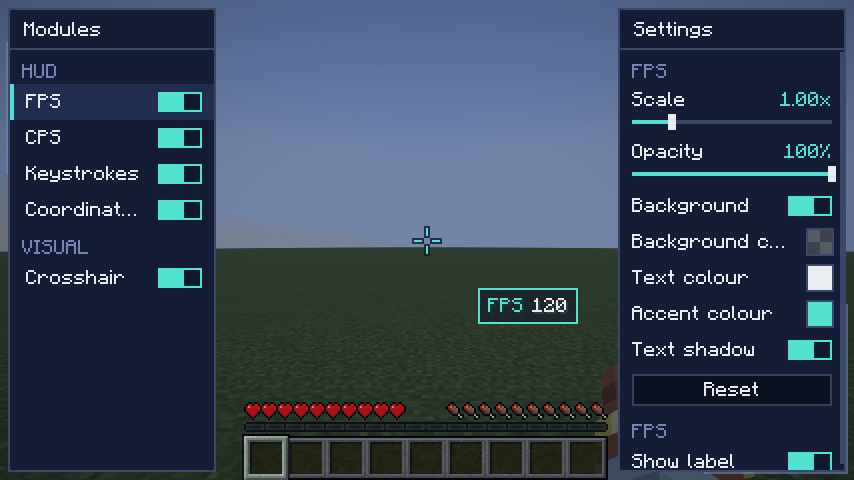
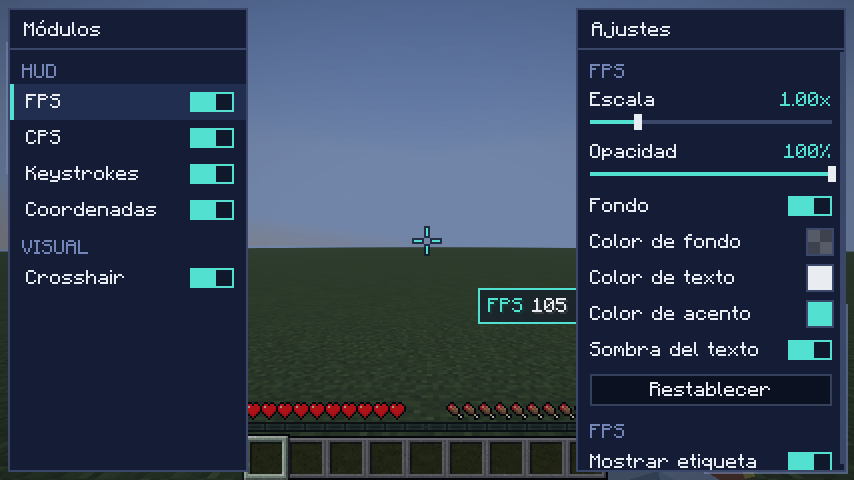
Editor: size panels to their content and wrap long labels
Spanish labels were cut off with ... because the panels had a fixed
width. Panels now fit their widest row (up to a third of the screen) and
labels that still do not fit wrap onto several lines. The client game
test runs in Spanish to cover the longest strings.

Changed region(s): [[0.6393, 0.0, 0.9133, 1.0], [0.0913, 0.0, 0.3044, 1.0], [0.7611, 0.7812, 0.9133, 0.8438]]

diff --git a/client-core/src/main/java/dev/cobalmoon/core/ui/Widgets.java b/client-core/src/main/java/dev/cobalmoon/core/ui/Widgets.java
@@ -41,6 +41,12 @@ public final class Widgets {
         void release() {}
 
         boolean scroll(double amount) { return false; }
+
+        /** Width this row needs to show its text without truncation. */
+        int preferredWidth(GuiCanvas c) { return 0; }
+
+        /** Called with the final row width before rendering (for rows whose height depends on it). */
+        void layout(GuiCanvas c, int w) {}
     }
 
     public static final class Header extends Row {
@@ -50,21 +56,61 @@ public final class Widgets {
 
         @Override protected int height() { return 16; }
 
+        @Override int preferredWidth(GuiCanvas c) { return c.textWidth(text.get().toUpperCase(Locale.ROOT)) + 14; }
+
         @Override
         void render(GuiCanvas c, int x, int y, int w, int mx, int my, boolean hovered) {
-            c.text(text.get().toUpperCase(Locale.ROOT), x + 6, y + 6, Theme.muted(), false);
+            c.text(ellipsize(c, text.get().toUpperCase(Locale.ROOT), w - 12), x + 6, y + 6, Theme.muted(), false);
         }
     }
 
+    /** Muted help text; wraps onto as many lines as needed instead of being cut. */
     public static final class Label extends Row {
         private final Supplier<String> text;
+        private List<String> lines = List.of();
 
         public Label(Supplier<String> text) { this.text = text; }
 
         @Override
-        void render(GuiCanvas c, int x, int y, int w, int mx, int my, boolean hovered) {
-            c.text(ellipsize(c, text.get(), w - 12), x + 6, y + 5, Theme.muted(), false);
+        void layout(GuiCanvas c, int w) {
+            lines = wrap(c, text.get(), w - 12);
         }
+
+        @Override protected int height() { return Math.max(1, lines.size()) * 10 + 8; }
+
+        @Override
+        void render(GuiCanvas c, int x, int y, int w, int mx, int my, boolean hovered) {
+            int ly = y + 5;
+            for (String l : lines) {
+                c.text(l, x + 6, ly, Theme.muted(), false);
+                ly += 10;
+            }
+        }
+    }
+
+    /** Greedy word wrap; words longer than the width are split. */
+    static List<String> wrap(GuiCanvas c, String text, int max) {
+        List<String> out = new ArrayList<>();
+        StringBuilder line = new StringBuilder();
+        for (String word : text.split(" ")) {
+            String candidate = line.isEmpty() ? word : line + " " + word;
+            if (c.textWidth(candidate) <= max) {
+                line.setLength(0);
+                line.append(candidate);
+                continue;
+            }
+            if (!line.isEmpty()) out.add(line.toString());
+            line.setLength(0);
+            while (c.textWidth(word) > max && word.length() > 1) {
+                int end = word.length();
+                while (end > 1 && c.textWidth(word.substring(0, end)) > max) end--;
+                out.add(word.substring(0, end));
+                word = word.substring(end);
+            }
+            line.append(word);
+        }
+        if (!line.isEmpty()) out.add(line.toString());
+        return out;
     }
 
     public static final class Toggle extends Row {
@@ -82,11 +128,20 @@ public final class Widgets {
             return new Toggle(() -> Tr.of(s.name()), s::get, s::set);
         }
 
+        private List<String> lines = List.of();
+
+        @Override int preferredWidth(GuiCanvas c) { return c.textWidth(label.get()) + 46; }
+
+        @Override void layout(GuiCanvas c, int w) { lines = wrap(c, label.get(), w - 40); }
+
+        @Override protected int height() { return wrappedHeight(lines); }
+
         @Override
         void render(GuiCanvas c, int x, int y, int w, int mx, int my, boolean hovered) {
-            if (hovered) c.fill(x, y, x + w, y + ROW_H, Theme.hover());
-            c.text(ellipsize(c, label.get(), w - 40), x + 6, y + 5, Theme.text(), false);
-            drawSwitch(c, x + w - 28, y + 4, get.getAsBoolean());
+            int h = height();
+            if (hovered) c.fill(x, y, x + w, y + h, Theme.hover());
+            drawLines(c, lines, x + 6, y, h, Theme.text());
+            drawSwitch(c, x + w - 28, y + (h - 10) / 2, get.getAsBoolean());
         }
 
         @Override
@@ -117,6 +172,8 @@ public final class Widgets {
         }
 
         @Override protected int height() { return 26; }
+
+        @Override int preferredWidth(GuiCanvas c) { return c.textWidth(label.get()) + c.textWidth(value.get()) + 22; }
 
         @Override
         void render(GuiCanvas c, int x, int y, int w, int mx, int my, boolean hovered) {
@@ -162,6 +219,8 @@ public final class Widgets {
             return new Cycle(() -> Tr.of(s.name()), () -> Tr.of(s.label(s.get())), s::cycle);
         }
 
+        @Override int preferredWidth(GuiCanvas c) { return c.textWidth(label.get()) + c.textWidth("‹ " + value.get() + " ›") + 22; }
+
         @Override
         void render(GuiCanvas c, int x, int y, int w, int mx, int my, boolean hovered) {
             if (hovered) c.fill(x, y, x + w, y + ROW_H, Theme.hover());
@@ -193,18 +252,28 @@ public final class Widgets {
             return new ColorPick(() -> Tr.of(s.name()), s::get, s::set);
         }
 
+        private List<String> lines = List.of();
+
+        @Override int preferredWidth(GuiCanvas c) { return c.textWidth(label.get()) + 34; }
+
+        @Override void layout(GuiCanvas c, int w) { lines = wrap(c, label.get(), w - 30); }
+
+        @Override protected int height() { return wrappedHeight(lines); }
+
         @Override
         void render(GuiCanvas c, int x, int y, int w, int mx, int my, boolean hovered) {
-            if (hovered) c.fill(x, y, x + w, y + ROW_H, Theme.hover());
+            int h = height();
+            if (hovered) c.fill(x, y, x + w, y + h, Theme.hover());
             int argb = get.getAsInt();
             String hex = ColorSetting.toHex(argb);
             int sx = x + w - 18;
             if (hovered) {
-                // the hex code replaces the label while hovering, so the label never gets truncated otherwise
-                c.text(hex, x + 6, y + 5, Theme.muted(), false);
+                // the hex code replaces the label while hovering
+                drawLines(c, List.of(hex), x + 6, y, h, Theme.muted());
             } else {
-                c.text(ellipsize(c, label.get(), w - 30), x + 6, y + 5, Theme.text(), false);
+                drawLines(c, lines, x + 6, y, h, Theme.text());
             }
+            y += (h - ROW_H) / 2; // centre the swatch vertically
             // checkerboard under the swatch so transparency is visible
             c.fill(sx, y + 3, sx + 12, y + 15, 0xFF808080);
             c.fill(sx, y + 3, sx + 6, y + 9, 0xFFC0C0C0);
@@ -246,6 +315,8 @@ public final class Widgets {
 
         @Override protected int height() { return 22; }
 
+        @Override int preferredWidth(GuiCanvas c) { return c.textWidth(label.get()) + 28; }
+
         @Override
         void render(GuiCanvas c, int x, int y, int w, int mx, int my, boolean hovered) {
             int bx1 = x + 6, bx2 = x + w - 6, by1 = y + 3, by2 = y + 19;
@@ -283,6 +354,8 @@ public final class Widgets {
             this.selected = selected;
         }
 
+        @Override int preferredWidth(GuiCanvas c) { return c.textWidth(name.get()) + 50; }
+
         @Override
         void render(GuiCanvas c, int x, int y, int w, int mx, int my, boolean hovered) {
             boolean sel = selected.getAsBoolean();
@@ -298,6 +371,20 @@ public final class Widgets {
             if (mx >= x + w - 32) toggle.run();
             else select.run();
             return true;
+        }
+    }
+
+    /** Row height for wrapped label lines: one line keeps the standard row height. */
+    static int wrappedHeight(List<String> lines) {
+        return lines.size() <= 1 ? ROW_H : lines.size() * 10 + 8;
+    }
+
+    /** Draws label lines vertically centred in a row of height h. */
+    static void drawLines(GuiCanvas c, List<String> lines, int x, int y, int h, int color) {
+        int ly = y + (h - (lines.size() * 10 - 2)) / 2;
+        for (String l : lines) {
+            c.text(l, x, ly, color, false);
+            ly += 10;
         }
     }
 
@@ -361,6 +448,19 @@ public final class Widgets {
         private void clampScroll() {
             int max = Math.max(0, contentHeight() - (y + h - contentTop()));
             scroll = Math.max(0, Math.min(max, scroll));
+        }
+
+        /** Width that fits the title and every row's text, clamped to [minW, maxW]. */
+        public int preferredWidth(GuiCanvas c, int minW, int maxW) {
+            int want = c.textWidth(title.get()) + 16;
+            for (Row r : rows) want = Math.max(want, r.preferredWidth(c) + 4);
+            return Math.max(minW, Math.min(maxW, want));
+        }
+
+        /** Lets rows whose height depends on the width (wrapped text) measure themselves. */
+        public void layoutRows(GuiCanvas c) {
+            for (Row r : rows) r.layout(c, w - 2);
+            clampScroll();
         }
 
         public boolean contains(double mx, double my) {

diff --git a/client-core/src/test/java/dev/cobalmoon/core/ui/WrapTest.java b/client-core/src/test/java/dev/cobalmoon/core/ui/WrapTest.java
@@ -1,0 +1,47 @@
+package dev.cobalmoon.core.ui;
+
+import dev.cobalmoon.core.render.GuiCanvas;
+import org.junit.jupiter.api.Test;
+
+import java.util.List;
+
+import static org.junit.jupiter.api.Assertions.*;
+
+class WrapTest {
+    /** 6 px per character, like Minecraft's font for most glyphs. */
+    static final class Fixed implements GuiCanvas {
+        @Override public int textWidth(String t) { return t.length() * 6; }
+        @Override public int fontHeight() { return 8; }
+        @Override public void text(String t, int x, int y, int c, boolean s) {}
+        @Override public void fill(int a, int b, int c, int d, int e) {}
+        @Override public int screenWidth() { return 480; }
+        @Override public int screenHeight() { return 270; }
+        @Override public void push(float x, float y, float s) {}
+        @Override public void pop() {}
+        @Override public float setAlpha(float a) { return 1; }
+        @Override public float alpha() { return 1; }
+        @Override public void clip(int a, int b, int c, int d) {}
+        @Override public void endClip() {}
+        @Override public void nextLayer() {}
+    }
+
+    @Test
+    void wrapsOnWordsAndKeepsEverything() {
+        List<String> lines = Widgets.wrap(new Fixed(), "Selecciona un elemento o un módulo.", 60);
+        // 60 px = 10 characters per line
+        assertEquals(List.of("Selecciona", "un", "elemento o", "un módulo."), lines);
+        for (String l : lines) assertTrue(l.length() <= 10, l);
+        assertEquals("Selecciona un elemento o un módulo.", String.join(" ", lines));
+    }
+
+    @Test
+    void splitsWordsLongerThanTheLine() {
+        List<String> lines = Widgets.wrap(new Fixed(), "abcdefghij", 24);
+        assertEquals(List.of("abcd", "efgh", "ij"), lines);
+    }
+
+    @Test
+    void shortTextIsOneLine() {
+        assertEquals(List.of("FPS"), Widgets.wrap(new Fixed(), "FPS", 100));
+    }
+}

diff --git a/client-core/src/main/java/dev/cobalmoon/core/editor/HudEditor.java b/client-core/src/main/java/dev/cobalmoon/core/editor/HudEditor.java
@@ -75,9 +75,9 @@ public final class HudEditor {
     public void init(int screenW, int screenH) {
         this.screenW = screenW;
         this.screenH = screenH;
-        int pw = Math.max(104, Math.min(150, screenW / 5));
-        left.bounds(4, 4, pw, screenH - 8);
-        right.bounds(screenW - pw - 14, 4, pw + 10, screenH - 8);
+        // Provisional size; fitPanels() sizes the panels to their content on every frame.
+        left.bounds(4, 4, 120, screenH - 8);
+        right.bounds(screenW - 124, 4, 120, screenH - 8);
         rebuildLeft();
         rebuildRight();
     }
@@ -175,8 +175,20 @@ public final class HudEditor {
         return 1f - (1f - t) * (1f - t) * (1f - t); // ease-out cubic
     }
 
+    /** Sizes both panels to their content (up to a third of the screen each) and wraps long texts. */
+    private void fitPanels(GuiCanvas c) {
+        int min = 104, max = Math.max(min, screenW * 32 / 100);
+        int lw = left.preferredWidth(c, min, max);
+        int rw = right.preferredWidth(c, min, max);
+        left.bounds(4, 4, lw, screenH - 8);
+        right.bounds(screenW - rw - 4, 4, rw, screenH - 8);
+        left.layoutRows(c);
+        right.layoutRows(c);
+    }
+
     public void render(GuiCanvas c, int mx, int my) {
         lastCanvas = c;
+        fitPanels(c);
         float prev = c.setAlpha(fade());
         try {
             c.fill(0, 0, screenW, screenH, Theme.scrim());

diff --git a/client-core/src/gametest/java/dev/cobalmoon/gametest/CobalmoonClientGameTest.java b/client-core/src/gametest/java/dev/cobalmoon/gametest/CobalmoonClientGameTest.java
@@ -28,6 +28,13 @@ public final class CobalmoonClientGameTest implements FabricClientGameTest {
 
     @Override
     public void runTest(ClientGameTestContext ctx) {
+        // Spanish has the longest UI strings: run the visual checks in it.
+        java.util.concurrent.CompletableFuture<?> reload = ctx.computeOnClient(mc -> {
+            mc.getLanguageManager().setSelected("es_es");
+            return mc.reloadResourcePacks();
+        });
+        ctx.waitFor(mc -> reload.isDone(), 20 * 60);
+
         try (TestSingleplayerContext world = ctx.worldBuilder().create()) {
             ctx.waitTicks(40);
 
